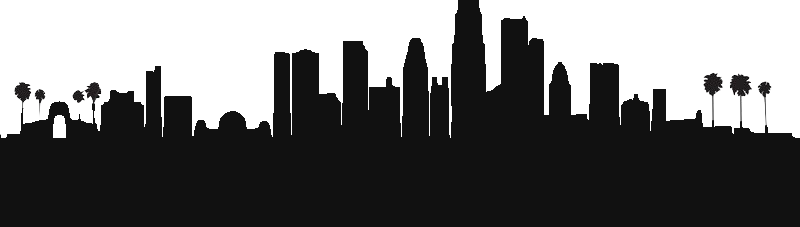
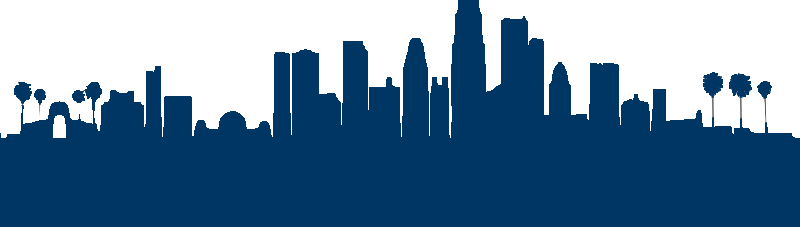
changed background color

diff --git a/main.css b/main.css
@@ -46,7 +46,7 @@ body {
 .main {
   position: absolute;
   top: 740px;
-  background-image: linear-gradient(#111111, rgba(198, 226, 255, 1));
+  background-color: #003663;
   width: 100%;
   min-height: 1500px;
 }
